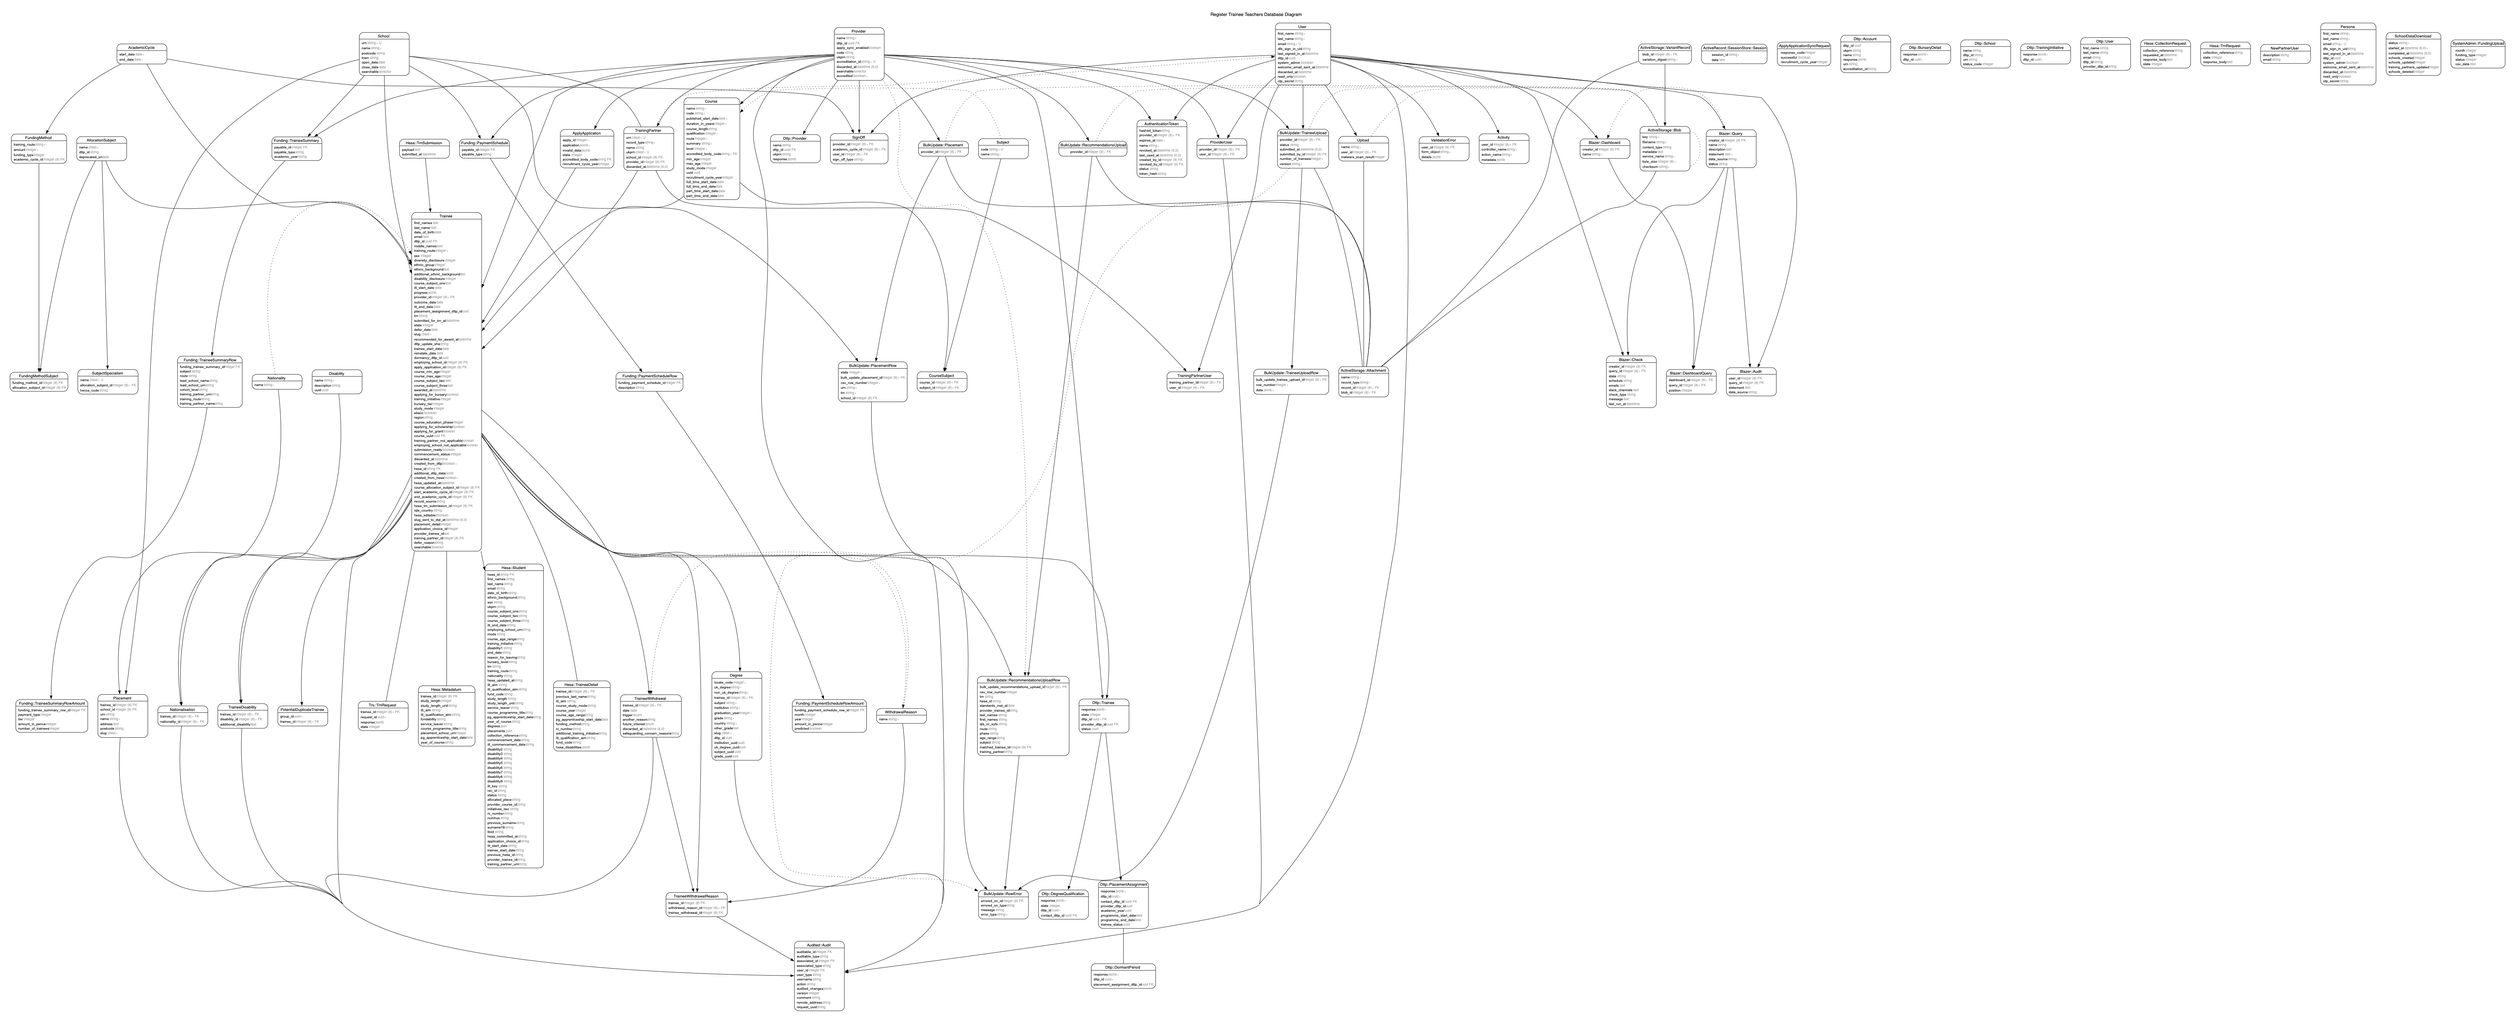
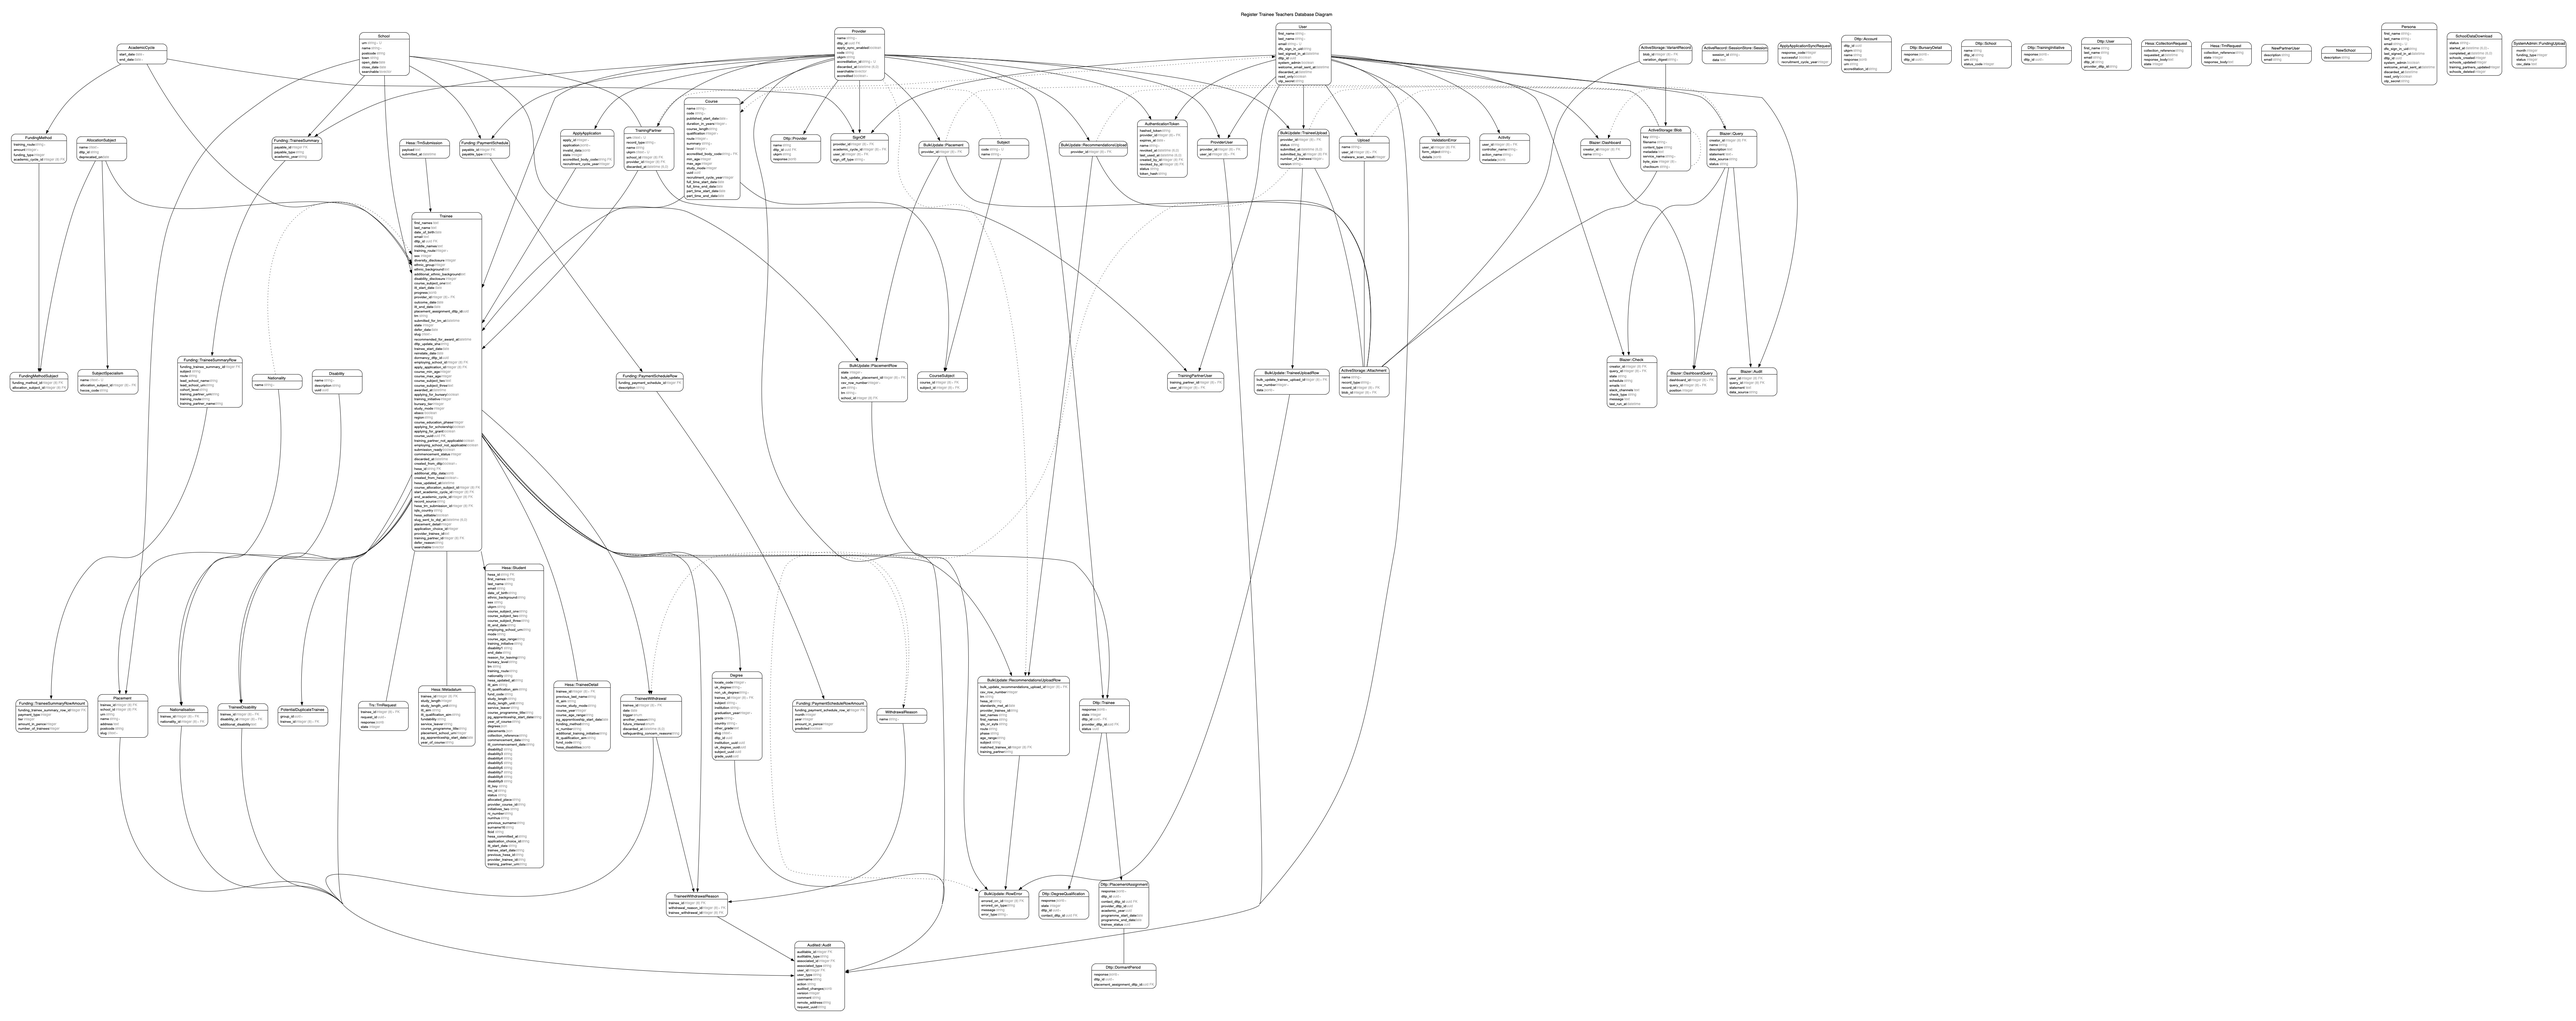
Add DB Migration new_schools

diff --git a/db/schema.rb b/db/schema.rb
@@ -10,7 +10,7 @@
 #
 # It's strongly recommended that you check this file into your version control system.
 
-ActiveRecord::Schema[7.2].define(version: 2026_01_19_104658) do
+ActiveRecord::Schema[7.2].define(version: 2026_01_19_181215) do
   # These are extensions that must be enabled in order to support this database
   enable_extension "btree_gist"
   enable_extension "citext"
@@ -744,6 +744,12 @@ ActiveRecord::Schema[7.2].define(version: 2026_01_19_104658) do
     t.datetime "created_at", null: false
     t.datetime "updated_at", null: false
     t.string "email"
+  end
+
+  create_table "new_schools", force: :cascade do |t|
+    t.string "description"
+    t.datetime "created_at", null: false
+    t.datetime "updated_at", null: false
   end
 
   create_table "placements", force: :cascade do |t|

diff --git a/db/migrate/20260119181215_create_new_schools.rb b/db/migrate/20260119181215_create_new_schools.rb
@@ -1,0 +1,11 @@
+# frozen_string_literal: true
+
+class CreateNewSchools < ActiveRecord::Migration[7.2]
+  def change
+    create_table :new_schools do |t|
+      t.string :description
+
+      t.timestamps
+    end
+  end
+end
